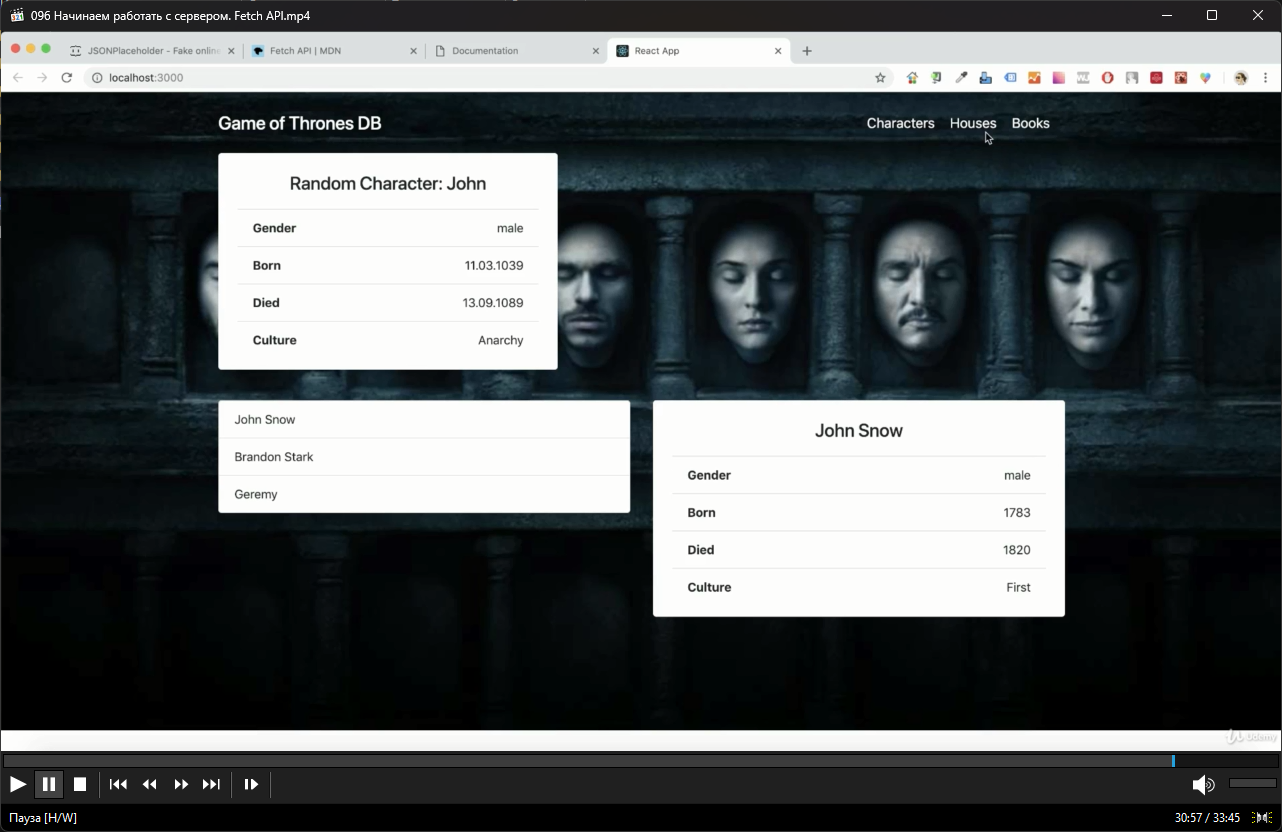
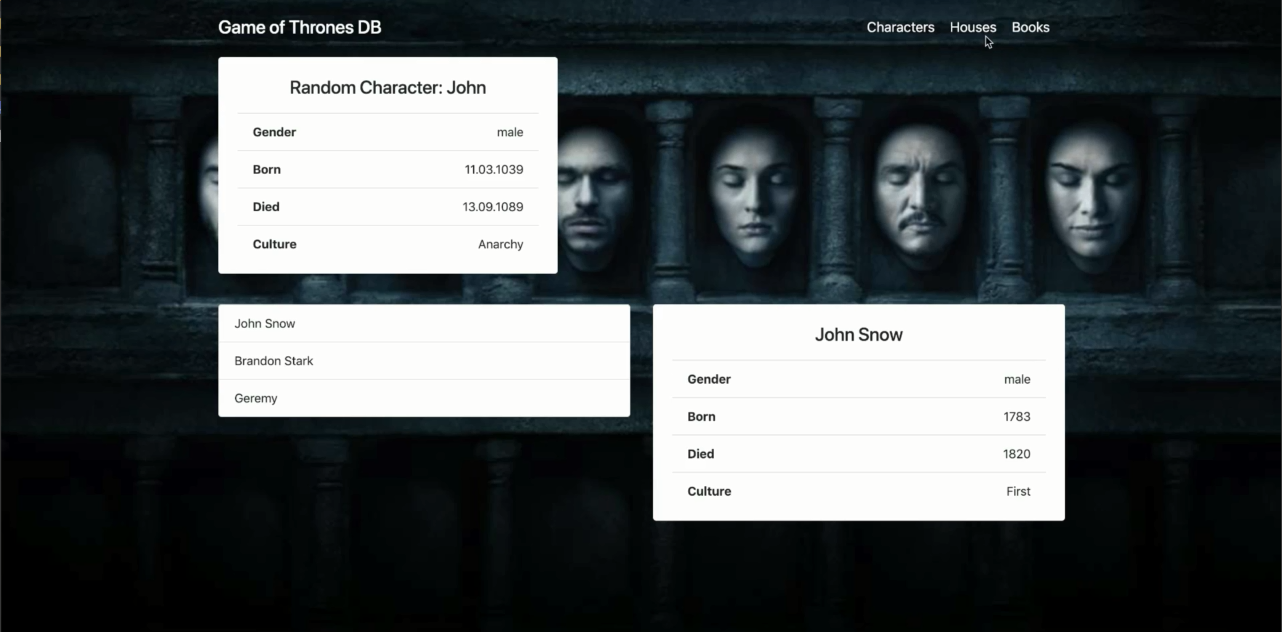
добавлены все секции

diff --git a/src/js/react/components/app/app.jsx b/src/js/react/components/app/app.jsx
@@ -1,5 +1,8 @@
 import React, { Component } from "react";
 import AppHeader from "../header/header.jsx";
+import RandomCharacter from "../randomCharacter/randomCharacter.jsx";
+import DetalesCharacter from "../detalesCharacter/detalesCharacter.jsx";
+import ItemList from "../itemList/itemList.jsx";
 import "./app.scss";
 
 export default class App extends Component {
@@ -12,6 +15,23 @@ export default class App extends Component {
 		return (
 			<div className="app">
 				<AppHeader />
+				<main className="page">
+					<section className="page__section">
+						<div className="haracter-list__container">
+							<RandomCharacter />
+						</div>
+					</section>
+					<div className="page__box">
+						<div className="box__container">
+							<section className="page__section">
+								<ItemList />
+							</section>
+							<section className="page__section">
+								<DetalesCharacter />
+							</section>
+						</div>
+					</div>
+				</main>
 				<div className="wrapper__bg">
 					<img src="img/got.jpeg" alt="got.jpeg" />
 				</div>

diff --git a/src/js/react/components/detalesCharacter/detalesCharacter.jsx b/src/js/react/components/detalesCharacter/detalesCharacter.jsx
@@ -1,0 +1,34 @@
+import React, { Component } from "react";
+import "./detalesCharacter.scss"
+
+export default class DetalesCharacter extends Component {
+	constructor(props) {
+		super(props);
+	}
+
+	render() {
+		return (
+			<ul className="haracter-list list">
+				<div className="list__item_name">Detailes Character:
+					<span className="list__">John</span>
+				</div>
+				<li className="list__item">
+					<span className="list__">Gender</span>
+					<span className="list__">male</span>
+				</li>
+				<li className="list__item">
+					<span className="list__">Born</span>
+					<span className="list__">11.03.1039</span>
+				</li>
+				<li className="list__item">
+					<span className="list__">Dies</span>
+					<span className="list__">13.09.1089</span>
+				</li>
+				<li className="list__item">
+					<span className="list__">Culture</span>
+					<span className="list__">Anarchy</span>
+				</li>
+			</ul>
+		)
+	}
+}

diff --git a/src/js/react/components/randomCharacter/randomCharacter.jsx b/src/js/react/components/randomCharacter/randomCharacter.jsx
@@ -1,0 +1,34 @@
+import React, { Component } from "react";
+import "./randomCharacter.scss"
+
+export default class RandomCharacter extends Component {
+	constructor(props) {
+		super(props);
+	}
+
+	render() {
+		return (
+			<ul className="haracter-list list">
+				<div className="list__item_name">Random Character:
+					<span className="list__">John</span>
+				</div>
+				<li className="list__item">
+					<span className="list__">Gender</span>
+					<span className="list__">male</span>
+				</li>
+				<li className="list__item">
+					<span className="list__">Born</span>
+					<span className="list__">11.03.1039</span>
+				</li>
+				<li className="list__item">
+					<span className="list__">Dies</span>
+					<span className="list__">13.09.1089</span>
+				</li>
+				<li className="list__item">
+					<span className="list__">Culture</span>
+					<span className="list__">Anarchy</span>
+				</li>
+			</ul>
+		)
+	}
+}

diff --git a/src/js/react/components/randomCharacter/randomCharacter.scss b/src/js/react/components/randomCharacter/randomCharacter.scss
@@ -1,0 +1,33 @@
+.haracter-list {
+	position: relative;
+	z-index: 2;
+	flex: 0 1 33.333%;
+}
+
+.list {
+	padding: 30px;
+	background-color: #fff;
+	border-radius: 5px;
+	& > :not(:last-child) {
+		position: relative;
+		&::after {
+			content: "";
+			width: 100%;
+			height: 1%;
+			background-color: #99999929;
+			display: block;
+			position: absolute;
+			bottom: 0;
+			left: 0;
+		}
+	}
+	// .list__item
+	&__item {
+		display: flex;
+		justify-content: space-between;
+		&_name {
+			display: flex;
+			justify-content: center;
+		}
+	}
+}

diff --git a/src/js/react/components/itemList/itemList.jsx b/src/js/react/components/itemList/itemList.jsx
@@ -1,0 +1,24 @@
+import React, { Component } from "react";
+import "./itemList.scss"
+
+export default class ItemList extends Component {
+	constructor(props) {
+		super(props);
+	}
+
+	render() {
+		return (
+			<ul className="haracter-list list">
+				<li className="list__item">
+					<span className="list__">John</span>
+				</li>
+				<li className="list__item">
+					<span className="list__">Gender</span>
+				</li>
+				<li className="list__item">
+					<span className="list__">Born</span>
+				</li>
+			</ul>
+		)
+	}
+}

diff --git a/src/js/react/components/app/app.scss b/src/js/react/components/app/app.scss
@@ -14,5 +14,31 @@
 		top: 0;
 		left: 0;
 		object-fit: cover;
+		z-index: 1;
+	}
+}
+.page {
+	// .page__box
+	&__box {
+	}
+	// .page__section
+	&__section {
+		margin: 0px 0px 30px 0px;
+	}
+}
+.box {
+	// .box__container
+	&__container {
+		display: flex;
+		column-gap: 30px;
+		& .page__section {
+			flex: 0 1 50%;
+		}
+	}
+}
+.haracter-list {
+	// .haracter-list__container
+	&__container {
+		display: flex;
 	}
 }

diff --git a/src/js/react/components/header/header.scss b/src/js/react/components/header/header.scss
@@ -1,6 +1,6 @@
 .header {
 	position: relative;
-	z-index: 1;
+	z-index: 2;
 	// .header__wrapper
 	&__wrapper {
 	}
